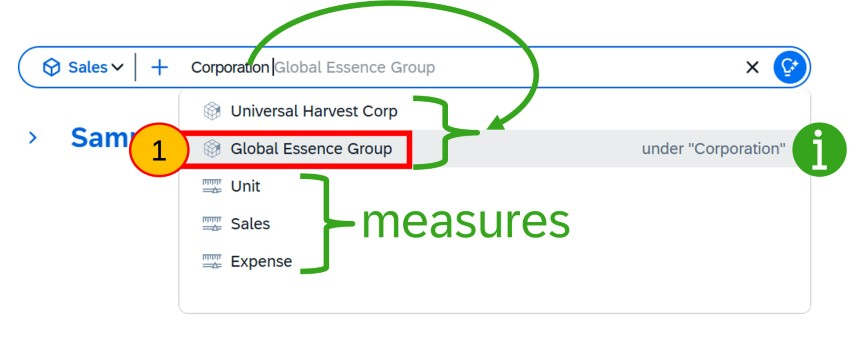
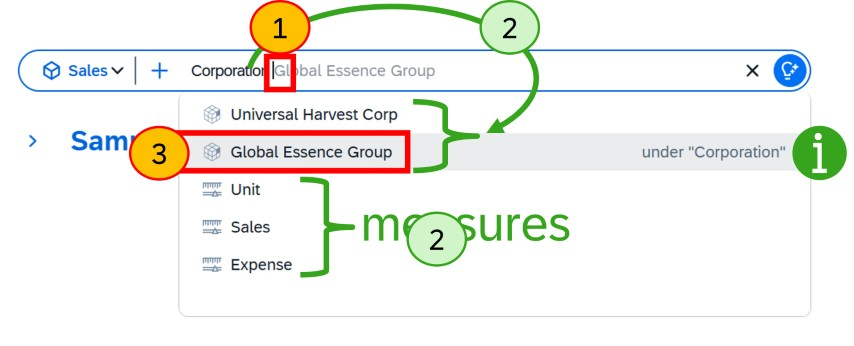
commit

diff --git a/exercises/ex3/README.md b/exercises/ex3/README.md
@@ -186,7 +186,7 @@ We can now open the Story in edit mode as you are the owner of this copied story
 <BR>
 <BR>
 
-### Step 11: explore data structure
+### Step 11: Explore hierarchy structure - select Corporation
 
 1. Click on **+** and another pop-down menu is shown. This exposes more about the data structures including hierarchies.
 2. Click (select) the **Corporation**
@@ -197,15 +197,15 @@ We can now open the Story in edit mode as you are the owner of this copied story
 <BR>
 <BR>
 
-### Step 12: dimension values pop-down
+### Step 12: dimension values pop-down - select Global Essence Group
   
 1. Place the cursor in the search box by clicking the **search box**.
 2. No action, just observe the pop-down box appearing with the dimension values for 'Corporation'. Without even running a query you can start to explore the data in the model.
-3. Click (select) the **Global Essence Group** value
+3. Click on the value **Global Essence Group** (a value of Corporation)
+
      
 ![Image](img/5059.jpg)
 
-
 <BR>
 <BR>
 <BR>
@@ -213,62 +213,43 @@ We can now open the Story in edit mode as you are the owner of this copied story
 
 
 
-### Step 13: explore hierarchies
+### Step 13: Add dimension Product_Category
 
-While the 'drop-down' box shows available options, another method clarifies hierarchies more effectively.
+With *Corporation Global Essence Group* selected
   
-1. Click the **+** icon (and do **NOT** use the drop-down list box, since the '+' menu exposes the model structure)
-2. Observe that Brand is a hierarchy and Corporation is under Brand. Click **Corporation**.
+1. Click the **+** icon
+2. Select the dimension **Product_Category**
 
 ![Image](img/5060.jpg)
 
 
 <BR>
 <BR>
+<BR>
+<BR>
 
-### Step 14: 
-
-With 'Corporation' selected the 'drop-down box' now shows the values 'under Corporation'.
+### Step 14: more dimension values exposed
+The 'drop-down box' now shows the values 'under Product_Category'. These include 'Food, Drink, Other etc'. You will see these categories in the next visualisation step. 
   
-1.	Click on the value **Global Essence Group** (a value of Corporation)
+
+Just Ask exposes values these dimensions have within the data, thus allowing you to explore
+1. Press **enter**, or click **search** (without having selected any of these dimensions values)
 
 ![Image](img/5061.jpg)
 
 
 <BR>
 <BR>
+<BR>
+<BR>
 
-Step 15: With *Corporation Global Essence Group* selected
+### Step 15: Measure added by default
   
-1. Click the **+** icon
-2. Select the dimension **Product_Category**
-
-![Image](img/ex2_img6.png)
-
-
-<BR>
-<BR>
-
-Step 16: 
-  The 'drop-down box' now shows the values 'under Product_Category'. These include 'Food, Drink, Other etc'. You will see these categories in the next visualisation step. 
-  
-
-Just Ask exposes values these dimensions have within the data, thus allowing you to explore
-1. Press **enter**, or click **search**
-
-![Image](img/ex2_img7.png)
-
-
-<BR>
-<BR>
-
-Step 17: 
-  
-1.	You did not need to specify a measure, so a default measure has been added for you. **Observe** the message saying 'Sales was added automatically'. 
+1.	You did not need to specify a measure, so a default measure has been added for you. **Observe** the message saying 'Sales automatically added to the display result'. 
 2.	As you are happy with this visualisation, you want to add it to the story. Click **Copy**. You will soon '*paste*' it into your copied story.
 3.	Click **Exit Just Ask**
 
-![Image](img/ex2_img8.png)
+![Image](img/5062.jpg)
 
 
 <BR>
@@ -277,45 +258,45 @@ Step 17:
 <BR>
 
 
-Step 18: 
+### Step 16: Paste into Story
   
-1. Select the **Empty Page**.
+1. Select the *Global Essence Group Page**.
 2. Select the **copy/paste** icon.
 3. Select **Paste**
 
   
 If nothing is pasted, open Just Ask to access the visualisation and click **copy** again before exiting Just Ask to repeat this step.
 
-![Image](img/ex2_img15.png)
+![Image](img/5063.jpg)
 
 
 <BR>
 <BR>
+<BR>
+<BR>
 
-Step 19:
+### Step 19: Re-size chart and save
   
 1. **Re-size** the chart to make it larger.
 2. Press **Save**, under **File**.
 
-![Image](img/ex2_img16.png)
+![Image](img/5064.jpg)
 
 
 <BR>
 <BR>
+<BR>
+<BR>
+
+
+## Summary
 
 You have now used Just Ask to explore the data model and added a new visualisation into a story you took a copy of.
-
-<BR>
-<BR>
 
 If they have the rights, users may decide to create new Stories rather than edit copies of existing ones.
 
 
 
-<BR>
-<BR>
-## Summary
 
-You've now ...
 
 Continue to - [Exercise 3 - Excercise 3 ](../ex3/README.md)
